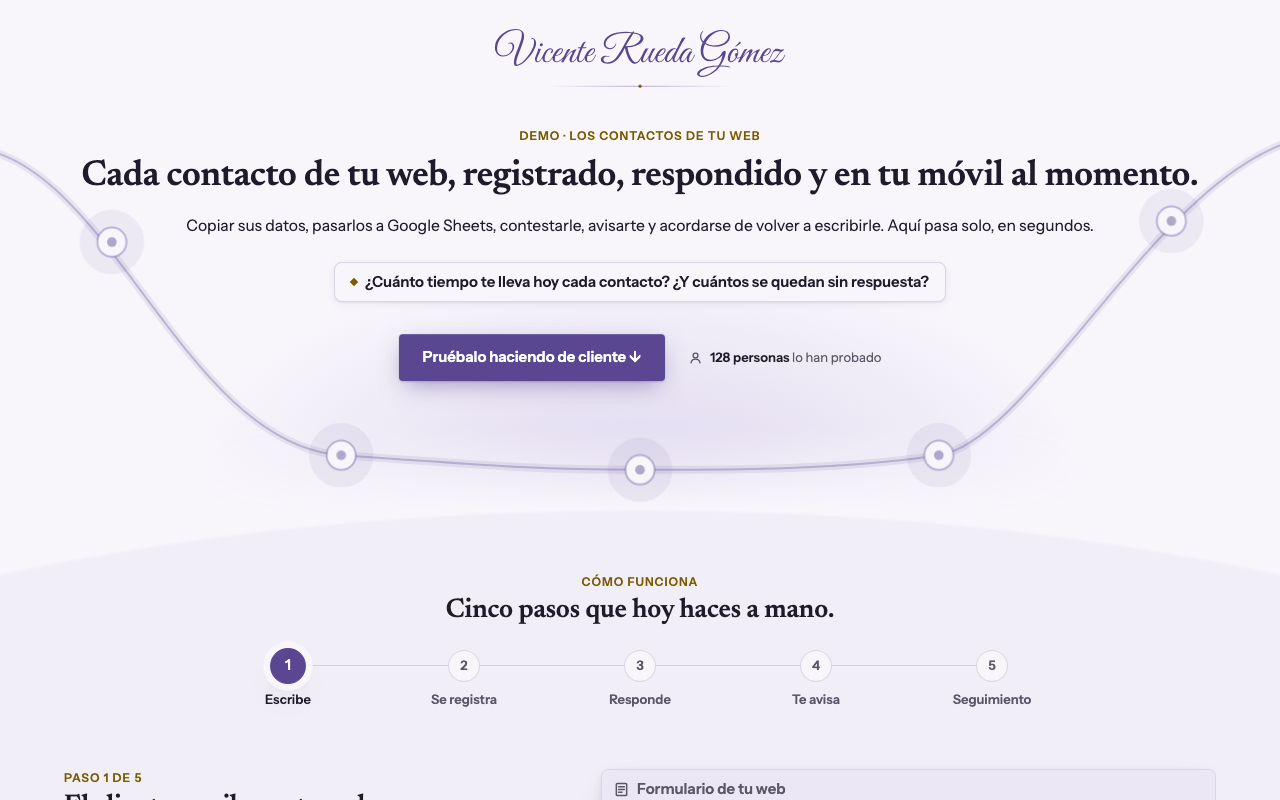
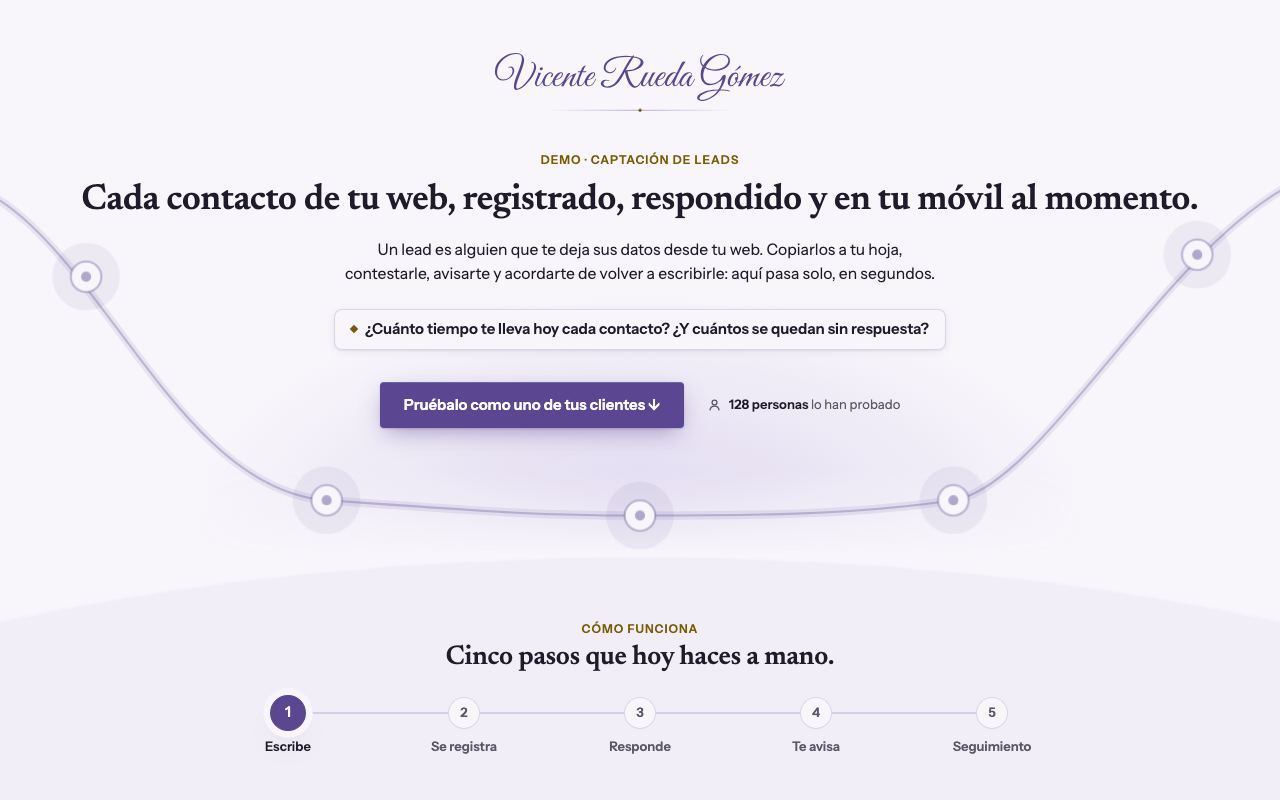
Textos de la demo con la brújula de la web: palabra clave, "tus clientes" y sin promesas absolutas
Título, descripción y vista previa con la palabra clave "captación de leads";
"uno de tus clientes" en lugar de "el cliente"; el aviso de fallos ya no
promete que nada se pierde. El subtítulo, más largo, tiene un tope de ancho
para no pasar por encima de los círculos de la línea. Capturas del README
rehechas con los textos nuevos.

diff --git a/index.html b/index.html
@@ -3,14 +3,14 @@
 <head>
   <meta charset="UTF-8">
   <meta name="viewport" content="width=device-width, initial-scale=1.0">
-  <title>Demo · Cada contacto de tu web, respondido al momento</title>
-  <meta name="description" content="Cuando alguien escribe desde tu web, queda registrado en tu hoja de Google Sheets, recibe respuesta al momento y te llega un aviso al móvil. Pruébalo haciendo de cliente.">
+  <title>Demo de captación de leads: pruébala en directo</title>
+  <meta name="description" content="Demo de captación de leads: escribe como lo haría uno de tus clientes y mira cómo se apunta, se responde y te avisa al móvil, paso a paso.">
   <!-- Vista previa al compartir el enlace (LinkedIn, WhatsApp, X…) -->
   <meta property="og:type" content="website">
   <meta property="og:locale" content="es_ES">
   <meta property="og:site_name" content="Vicente Rueda Gómez">
-  <meta property="og:title" content="Demo · Cada contacto de tu web, respondido al momento">
-  <meta property="og:description" content="Cuando alguien escribe desde tu web, queda registrado en tu hoja de Google Sheets, recibe respuesta al momento y te llega un aviso al móvil. Pruébalo haciendo de cliente.">
+  <meta property="og:title" content="Demo de captación de leads: pruébala en directo">
+  <meta property="og:description" content="Demo de captación de leads: escribe como lo haría uno de tus clientes y mira cómo se apunta, se responde y te avisa al móvil, paso a paso.">
   <meta property="og:url" content="https://demo-leads.vicenterueda.com/">
   <meta property="og:image" content="https://demo-leads.vicenterueda.com/compartir.png">
   <meta property="og:image:width" content="1200">
@@ -141,7 +141,7 @@
     @media (min-width: 600px)  { h1 { font-size: 2.1rem; } }
     @media (min-width: 1024px) { h1 { font-size: 2.4rem; } }
     .subtitulo { font-size: var(--t-paso); max-width: 34em; margin: 0 auto var(--espacio-24); text-wrap: balance; }
-    @media (min-width: 1280px) { .subtitulo { max-width: none; } }
+    @media (min-width: 1280px) { .subtitulo { max-width: 48em; } } /* tope de ancho (dos líneas): sin él, el texto largo pasa por encima de los círculos de la línea */
     .pregunta {
       display: inline-flex; align-items: baseline; gap: var(--espacio-8);
       font-weight: var(--peso-fuerte); max-width: 40em; margin-bottom: var(--espacio-32); text-align: left;
@@ -613,12 +613,12 @@
         </picture>
       </a>
       <div class="portada-centro">
-        <p class="etiqueta aparece">Demo · Los contactos de tu web</p>
+        <p class="etiqueta aparece">Demo · Captación de leads</p>
         <h1 class="aparece">Cada contacto de tu web, registrado, respondido y en tu móvil al momento.</h1>
-        <p class="subtitulo aparece">Copiar sus datos, pasarlos a Google Sheets, contestarle, avisarte y acordarse de volver a escribirle. Aquí pasa solo, en segundos.</p>
+        <p class="subtitulo aparece">Un lead es alguien que te deja sus datos desde tu web. Copiarlos a tu hoja, contestarle, avisarte y acordarte de volver a escribirle: aquí pasa solo, en segundos.</p>
         <p class="pregunta aparece">¿Cuánto tiempo te lleva hoy cada contacto? ¿Y cuántos se quedan sin respuesta?</p>
         <div class="cta aparece">
-          <a href="#probar" class="btn-primario">Pruébalo haciendo de cliente ↓</a>
+          <a href="#probar" class="btn-primario">Pruébalo como uno de tus clientes ↓</a>
           <p class="personas oculto" id="pruebaSocial"><svg class="icono" aria-hidden="true"><use href="#i-persona"/></svg>
             <span><b id="contadorPersonas"></b> <span id="textoContador">personas lo han probado</span></span></p>
         </div>
@@ -649,7 +649,7 @@
             <div class="r-bloque">
               <div class="r-cab anima">
                 <p class="etiqueta">Paso 1 de 5</p>
-                <h3>El cliente escribe en tu web</h3>
+                <h3>Uno de tus clientes escribe en tu web</h3>
               </div>
               <div class="r-pieza anima" aria-hidden="true">
                 <div class="pieza">
@@ -745,7 +745,7 @@
             <div class="r-bloque">
               <div class="r-cab anima">
                 <p class="etiqueta">Paso 5 de 5</p>
-                <h3>Si nadie le ha contestado, vuelve a escribirle</h3>
+                <h3>Si nadie le ha contestado, se le vuelve a escribir solo</h3>
               </div>
               <div class="r-pieza anima" aria-hidden="true">
                 <div class="pieza">
@@ -763,7 +763,7 @@
             </div>
           </li>
           </ol>
-          <p class="aviso-falla"><svg class="icono" aria-hidden="true"><use href="#i-escudo"/></svg><span>Y si algo falla (Google Sheets o el correo), también te avisa, con el motivo. Nada se pierde en silencio.</span></p>
+          <p class="aviso-falla"><svg class="icono" aria-hidden="true"><use href="#i-escudo"/></svg><span>Y si algo falla (Google Sheets o el correo), también te avisa, con el motivo, para que no te enteres tarde.</span></p>
           </div>
         </div>
       </section>
@@ -774,7 +774,7 @@
         <div>
           <div class="tarjeta">
             <div class="tarjeta-cab">
-              <h2 class="titular" id="t-probar">Haz de cliente</h2>
+              <h2 class="titular" id="t-probar">Escribe como uno de tus clientes</h2>
               <span class="nota" id="notaObligatorios">Los campos con <span class="req">*</span> son obligatorios.</span>
             </div>
 
